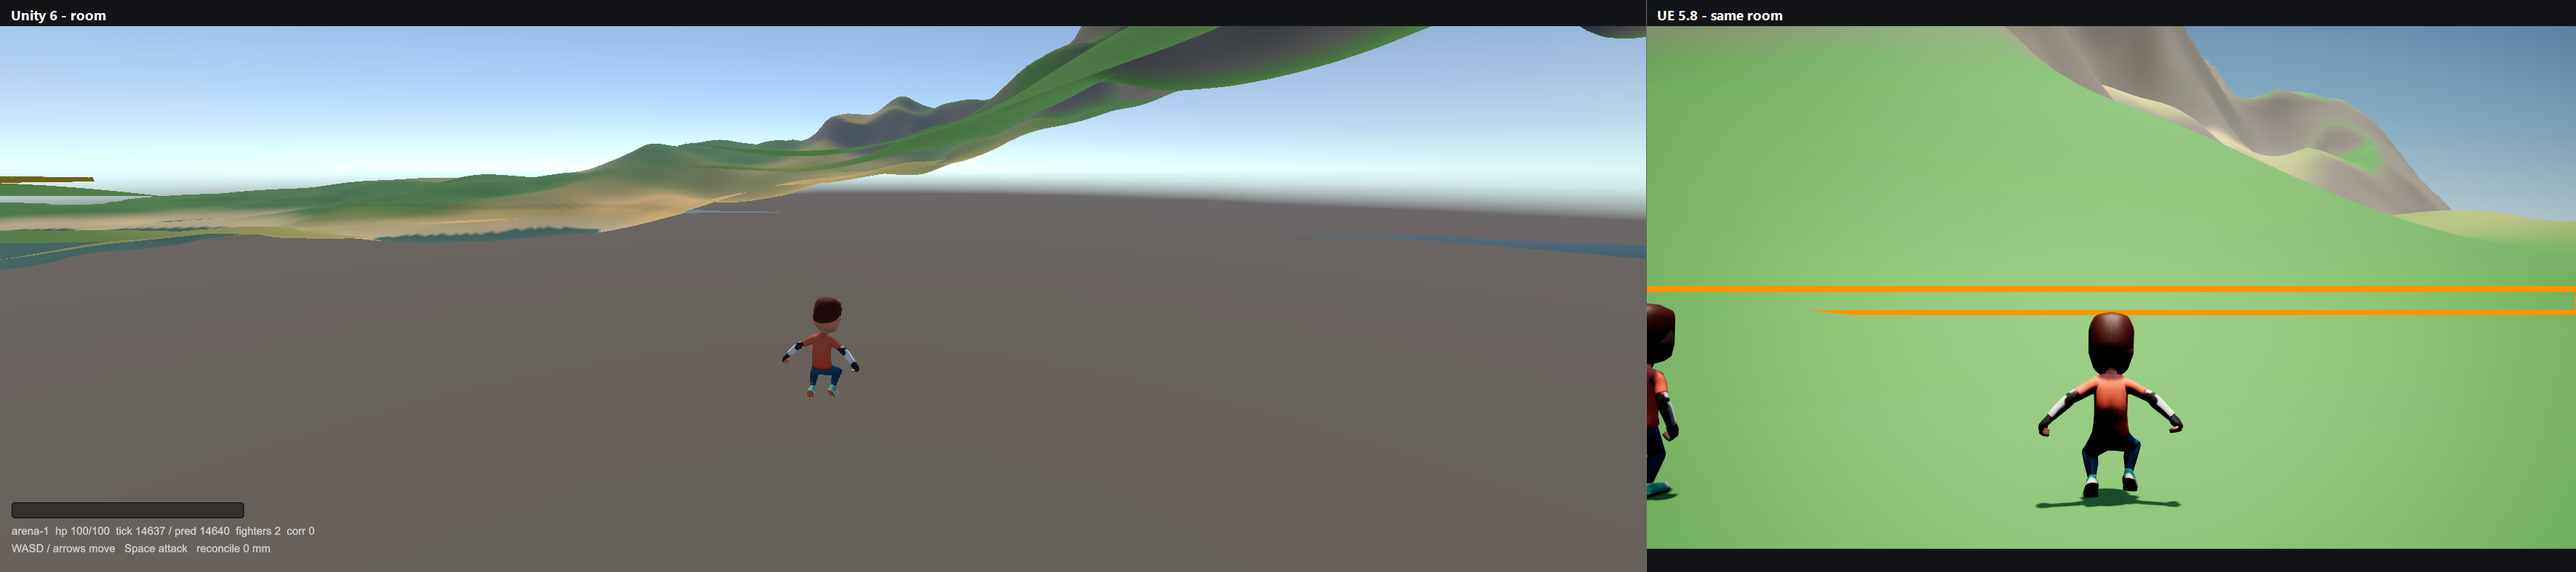
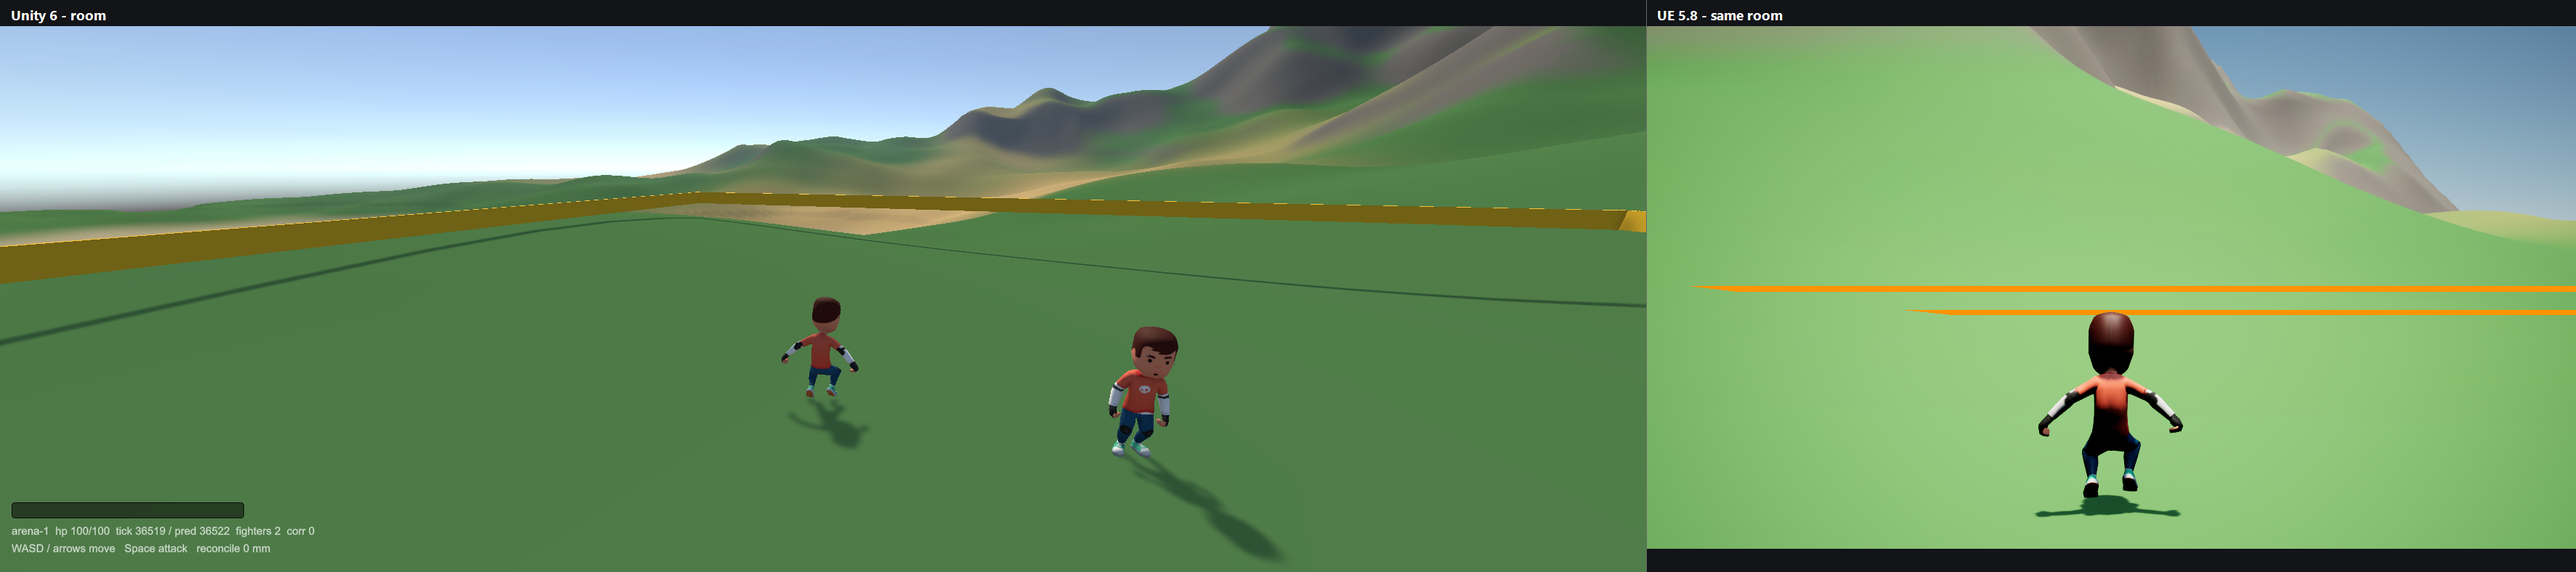
fix(unity): 修复 ECS 预测的世界坐标与房间中心；移除 Entities Graphics
- RoomClient 等世界就绪再进房、改用 WorldBootstrap.Player、进房时重建本地实体
- 修复每帧把房间相对坐标当成世界坐标发给 ECS，导致角色被拉到世界原点、地形显示异常
- RoomEcsBridge 用 Transform 初始化预测位置/朝向，避免默认 (0,0) 跳变
- 移除 com.unity.entities.graphics（实测与自定义地形 shader 不兼容，保留证据图）

diff --git a/clients/unity/UnityGameClient/Assets/Scripts/Net/RoomClient.cs b/clients/unity/UnityGameClient/Assets/Scripts/Net/RoomClient.cs
@@ -142,6 +142,12 @@ namespace AI003.Net
             _enabled = System.Environment.GetEnvironmentVariable("AI003_ROOM") == "1";
         }
 
+        private static ThirdPersonController FindPlayer()
+        {
+            var bootstrap = FindFirstObjectByType<WorldBootstrap>();
+            if (bootstrap != null && bootstrap.Player != null) return bootstrap.Player;
+            return FindFirstObjectByType<ThirdPersonController>();
+        }
         private void OnDestroy()
         {
             LeaveLocal();
@@ -185,6 +191,8 @@ namespace AI003.Net
 
             if (!InRoom)
             {
+                var bootstrap = FindFirstObjectByType<WorldBootstrap>();
+                if (bootstrap == null || !bootstrap.IsReady) return;
                 if (Time.unscaledTime >= _nextEnter)
                 {
                     _nextEnter = Time.unscaledTime + 1f;
@@ -195,10 +203,11 @@ namespace AI003.Net
 
             if (_local == null)
             {
-                _local = FindFirstObjectByType<ThirdPersonController>();
+                _local = FindPlayer();
                 if (_local == null) return;
                 _localAnimator = _local.GetComponentInChildren<Animator>();
-                _bridge.EnsureLocal(_local.transform, _localAnimator, _local.GetComponentInChildren<Renderer>());
+                // Do not create the prediction entity before the room is entered:
+                // the ECS would move the avatar to the default (0,0) prediction.
             }
 
             float now = Time.unscaledTime;
@@ -274,13 +283,14 @@ namespace AI003.Net
             HP = state?["hp"]?.Value<int>() ?? MaxHP;
             Dead = state != null && !(state["alive"]?.Value<bool>() ?? true);
 
-            _local = FindFirstObjectByType<ThirdPersonController>();
+            _local = FindPlayer();
             if (_local != null && !wasInRoom)
             {
                 _center = _local.transform.position;
                 _groundY = _center.y;
                 _local.enabled = false;
                 _localAnimator = _local.GetComponentInChildren<Animator>();
+                _bridge.Clear();
                 _bridge.EnsureLocal(_local.transform, _localAnimator, _local.GetComponentInChildren<Renderer>());
             }
 
@@ -349,8 +359,8 @@ namespace AI003.Net
                     HP = token["hp"]?.Value<int>() ?? HP;
                     Dead = !alive;
                     _bridge.SetServerSnapshot(
-                        Mathf.RoundToInt(xMeters * 1000f),
-                        Mathf.RoundToInt(zMeters * 1000f),
+                        Mathf.RoundToInt(position.x * 1000f),
+                        Mathf.RoundToInt(position.z * 1000f),
                         Tick);
                 }
                 else

diff --git a/clients/unity/UnityGameClient/Assets/Scripts/Ecs/RoomEcsBridge.cs b/clients/unity/UnityGameClient/Assets/Scripts/Ecs/RoomEcsBridge.cs
@@ -69,8 +69,10 @@ namespace AI003.Ecs
             {
                 Alive = true,
                 LungeDuration = 0.18f,
-                Yaw = 180f,
-                TargetYaw = 180f
+                Position = transform.position,
+                TargetPosition = transform.position,
+                Yaw = transform.eulerAngles.y,
+                TargetYaw = transform.eulerAngles.y
             });
             Em.AddComponentData(_local, new FighterAnim { Speed = 0f, Grounded = true, PlayRate = 1f });
             Em.AddComponentData(_local, new FighterView
@@ -81,6 +83,9 @@ namespace AI003.Ecs
             });
             Em.AddComponentData(_local, new PredictionState
             {
+                PositionMm = new int2(
+                    (int)System.Math.Round(transform.position.x * 1000f),
+                    (int)System.Math.Round(transform.position.z * 1000f)),
                 SpeedMm = 250,
                 DiagonalMm = 177,
                 HalfExtentMm = 20000

diff --git a/README.md b/README.md
@@ -111,11 +111,11 @@ Unity 端已从"每个角色一个 MonoBehaviour 驱动"迁移到 **Entities 6.6
 - **批处理**：`FighterStateUpdateJob`（Burst `IJobEntity`）负责计时、远端插值与倒地，
   `FighterViewSystem` 只做表现。PlayMode 基准（4000 远端，10 次平均）：
   **job 0.118 ms vs 托管循环 3.569 ms**（约 30×）
-- **Entities Graphics（实测）**：已安装 `com.unity.entities.graphics@6.6.0`；静态网格 +
-  URP Lit 可正常渲染（[探针截图](docs/images/ecs-graphics-probe.png)），但自定义地形 shader
-  没有 DOTS instancing（渲染为洋红，[证据](docs/images/ecs-terrain-shader-fail.png)），
-  骨骼角色还需要 deformation shader。因此地形/角色暂时保留 GameObject 渲染，
-  迁移前提是把 shader 改成 DOTS 兼容版本（下一步工作）
+- **Entities Graphics（实测后移除）**：试装 `com.unity.entities.graphics@6.6.0` 并验证：
+  静态网格 + URP Lit 可正常渲染（[探针截图](docs/images/ecs-graphics-probe.png)），但自定义
+  地形 shader 没有 DOTS instancing（渲染为洋红，[证据](docs/images/ecs-terrain-shader-fail.png)），
+  骨骼角色还需要 deformation shader。结论：迁移前提是先把 shader 改成 DOTS 兼容版本；
+  为避免影响现有渲染，包已移除，地形/角色继续用 GameObject 渲染
 - 验证：PlayMode 5/5（含实体→Transform、整数预测、Burst 基准）；`demo-room` 双端截图确认
 
 限制：地形与角色物理未 ECS 化；Entities Graphics 迁移受 shader 兼容性阻塞（见上）。
